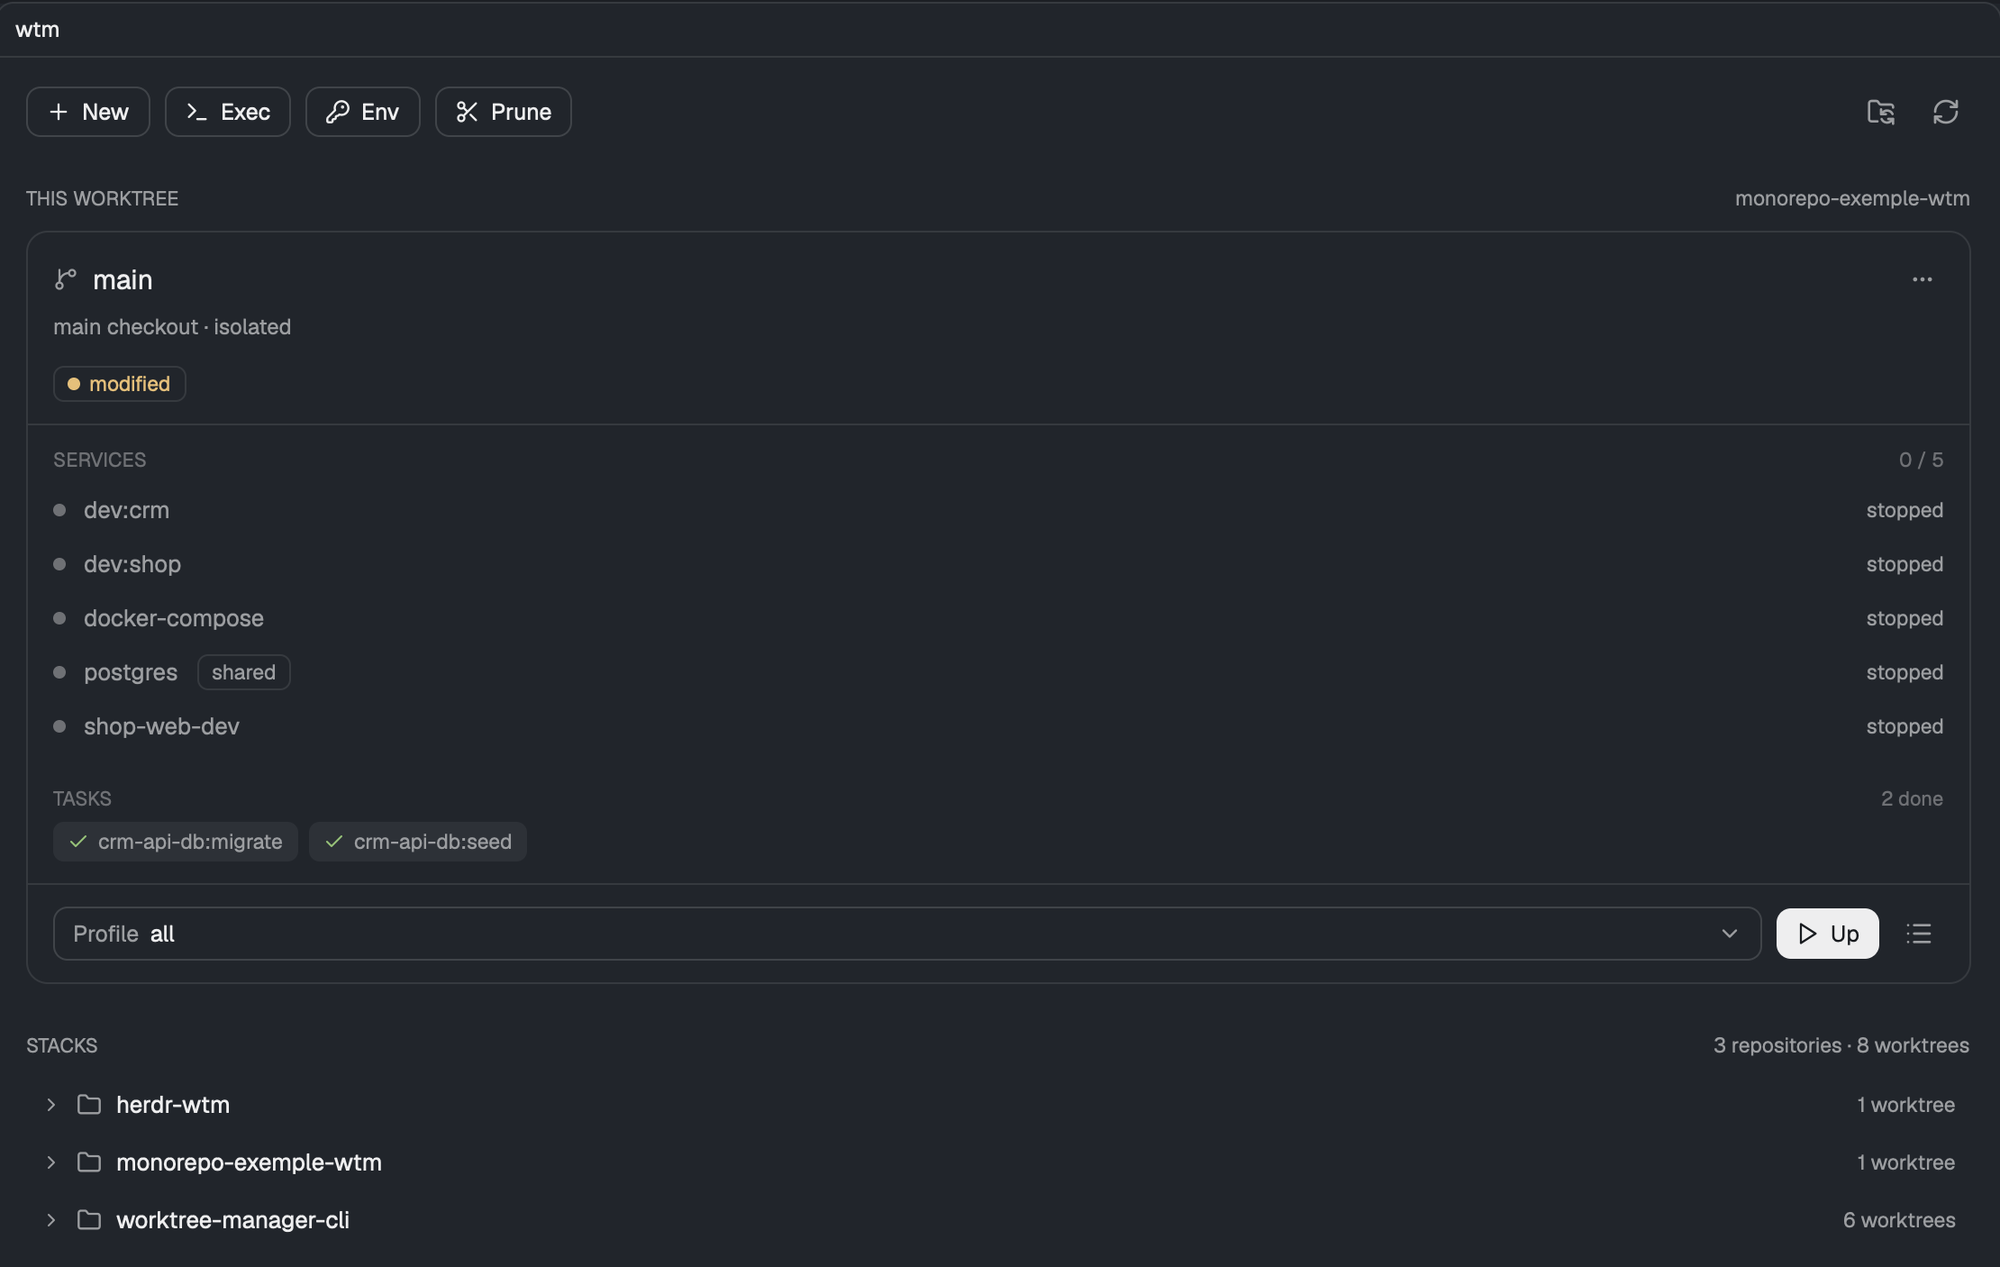
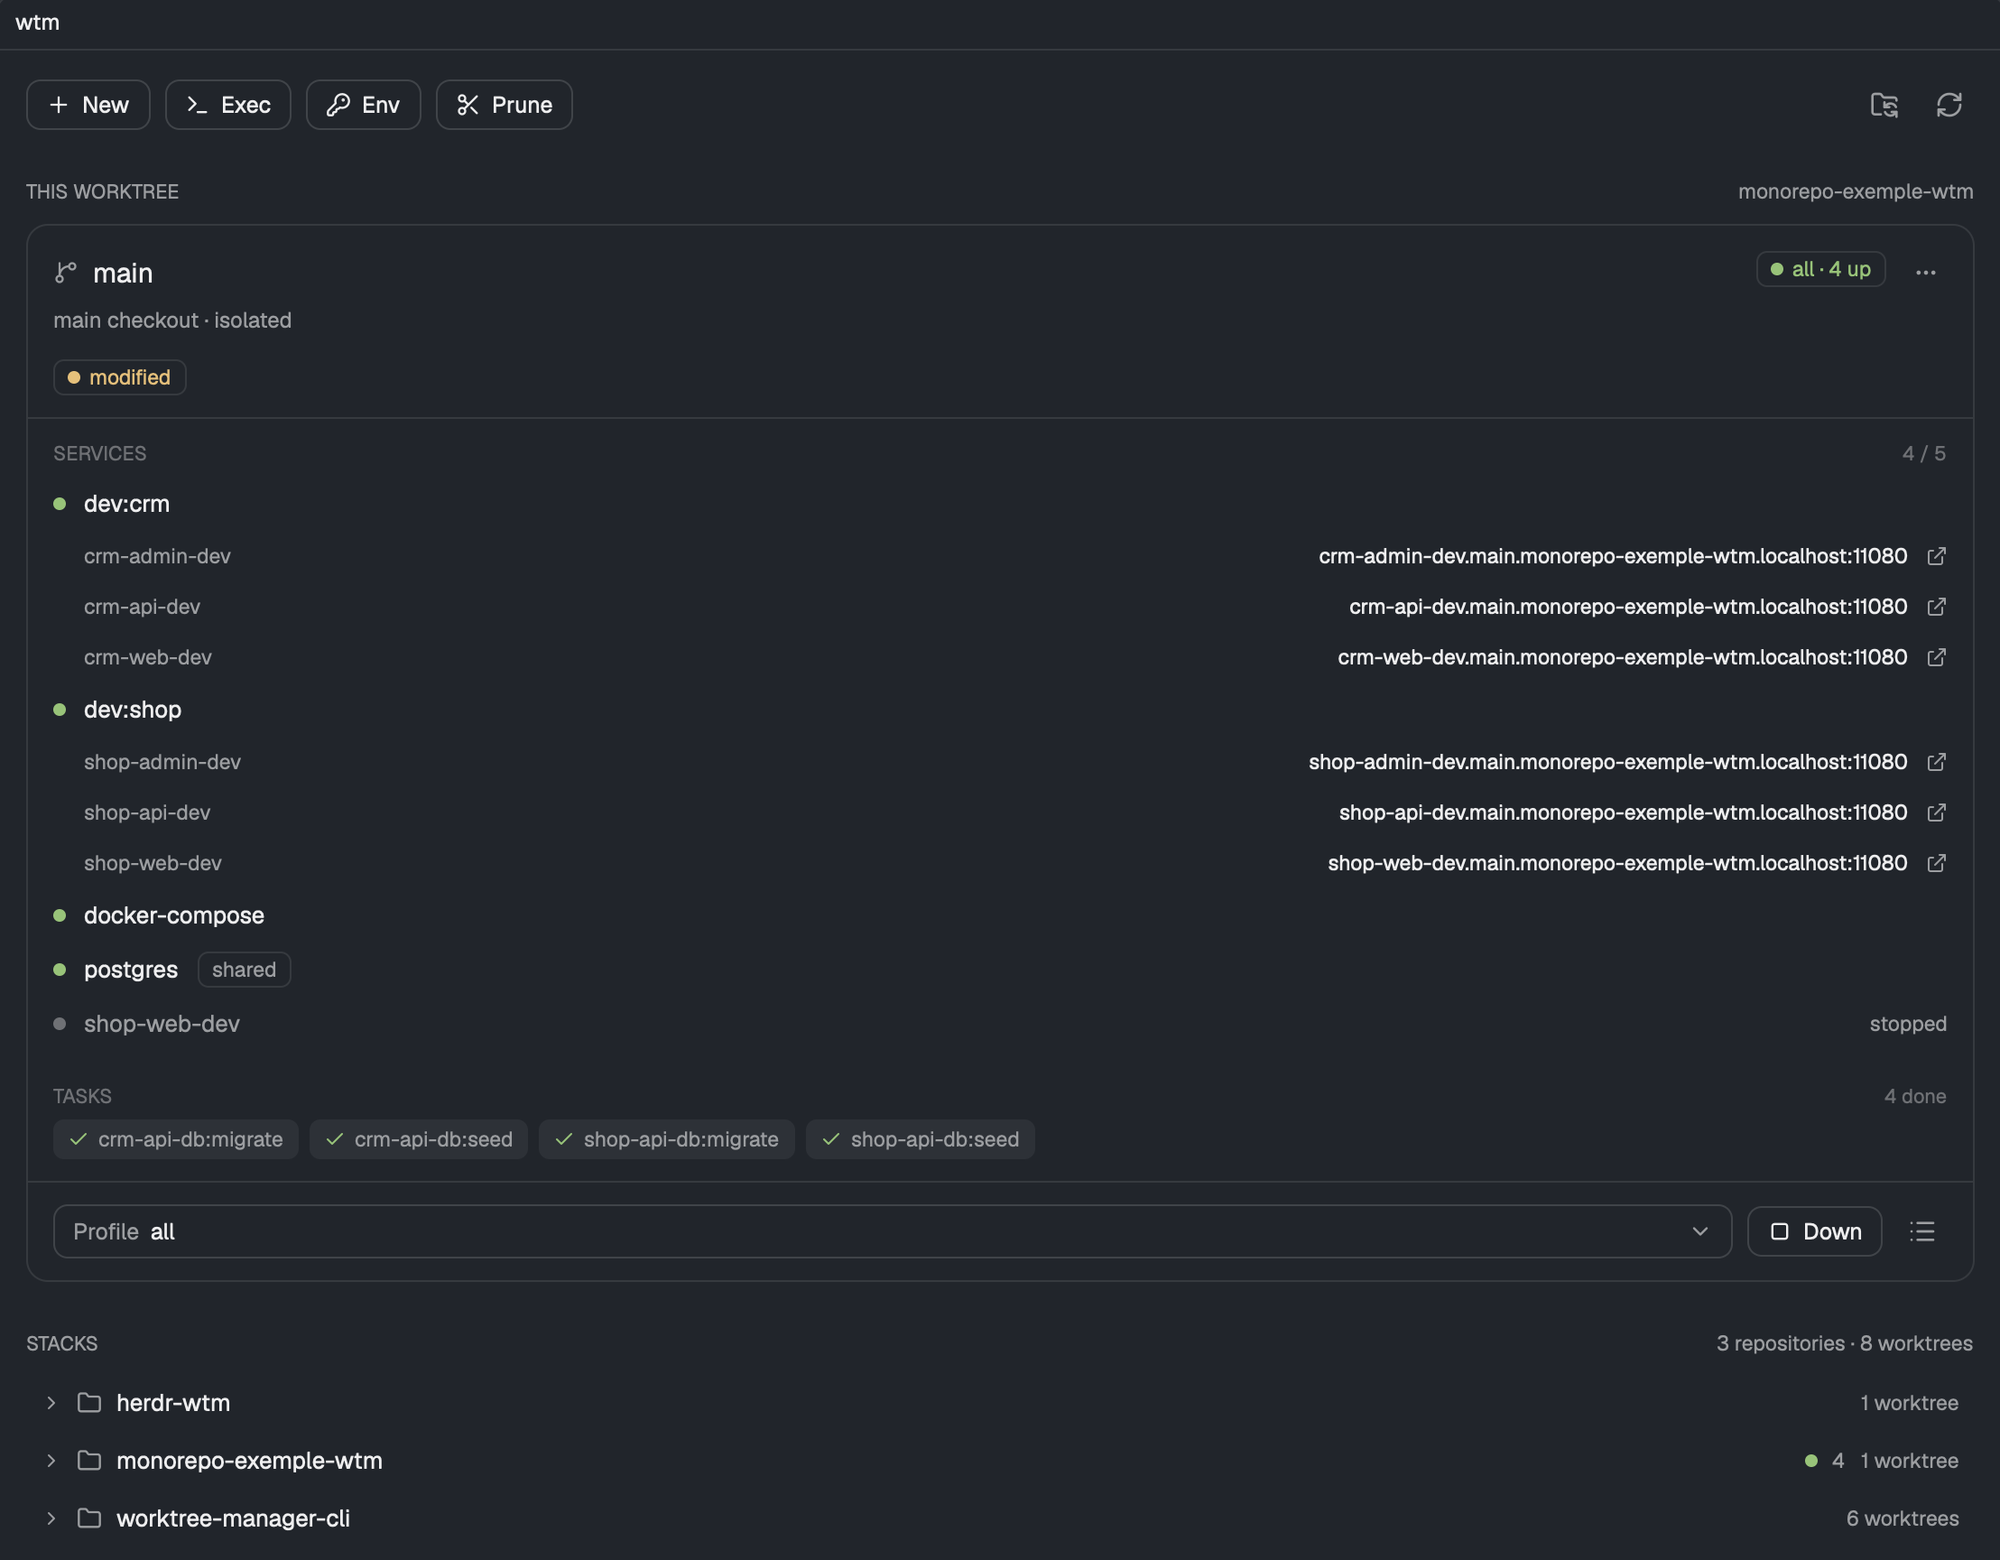
docs: the pane with a running stack and its addresses in the README

diff --git a/README.md b/README.md
@@ -23,8 +23,8 @@
 </p>
 
 <p align="center">
-  <img alt="The worktrees pane: actions, the current worktree with its services, tasks and profile, then every repository's stacks" src="docs/assets/pane.png" width="560"><br>
-  <em>The pane: this worktree's services, tasks and profile, then every stack.</em>
+  <img alt="The worktrees pane: the current worktree with its running profile, its services and the addresses their apps answer on, its tasks, then every repository's stacks" src="docs/assets/pane.png" width="560"><br>
+  <em>The pane: this worktree's stack and where to reach it, then every stack.</em>
 </p>
 
 ## Highlights
